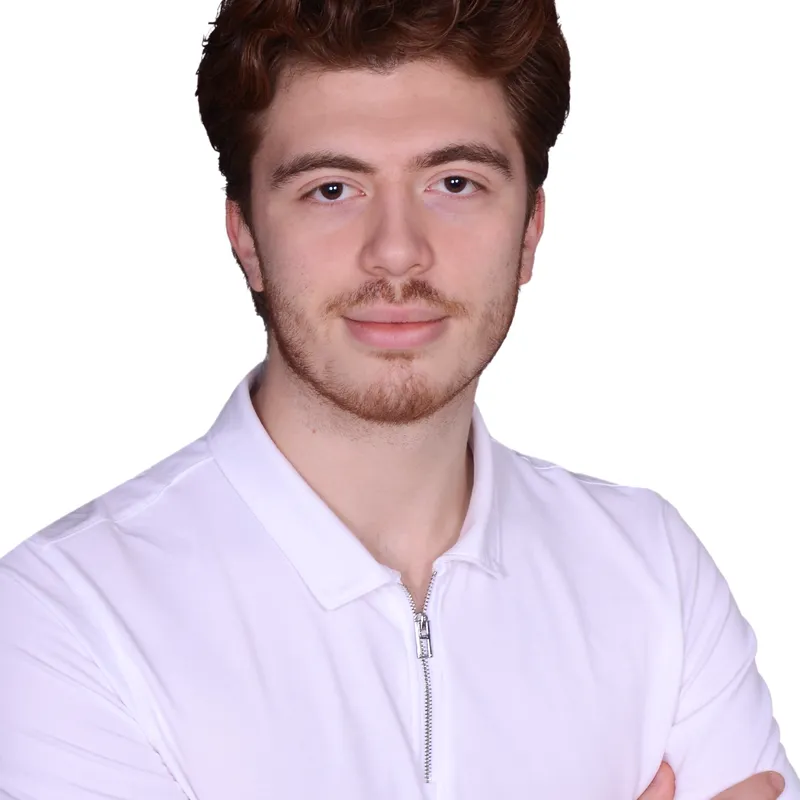
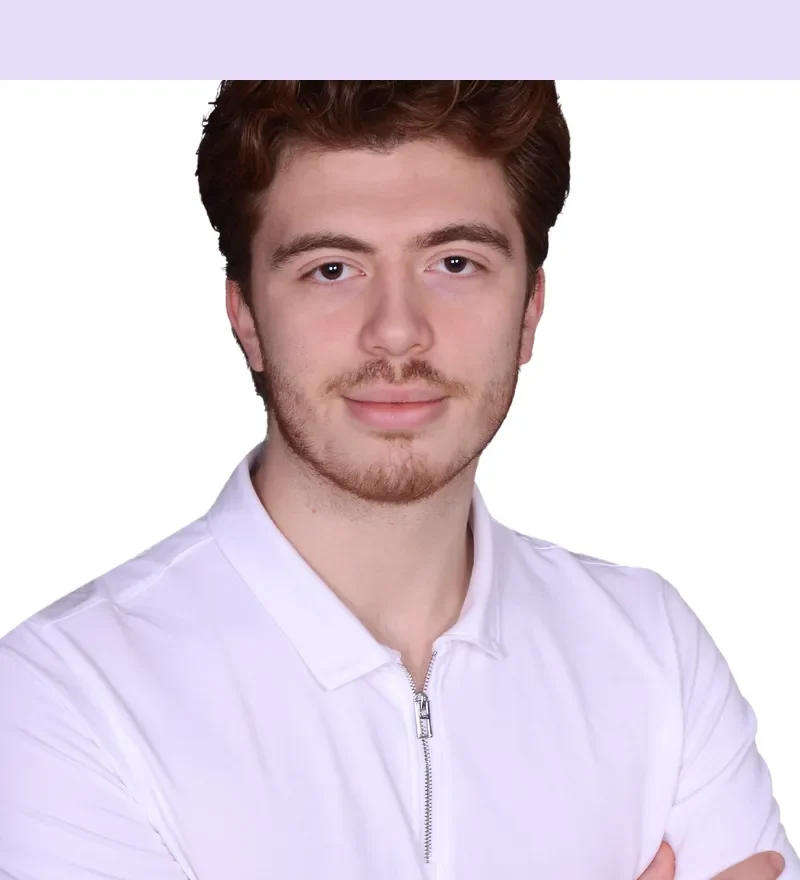
content(team): add Gozde, Tolunay, Bengisu, Dilsad — remove Damla — reframe Gurkan
Four new team members added to /studio team grid (and SEO surfaces flowing
through visibleTeamMembers):
- Gozde — Business Development
- Tolunay — Designer
- Bengisu Tuncer — Designer
- Dilsad Altinisik — Designer

All four source images converted from jpg/png to 800x800 WebP at quality 82,
matching the existing team format exactly. Used sharp's "attention" smart-crop
to keep faces well-positioned within the square frame. File sizes 14-65 KB,
in line with existing 17-66 KB range.

Damla Niseoglu removed (no longer with the firm). Damla.webp deleted from
public/people/ — verified no other code or content references it.

Gurkan's photo reframing: brightness analysis across all 11 portraits showed
his image was the only one with the head touching the top edge (top band
brightness 180 vs 226-251 for everyone else, who all had clear background
above the head). Sampled his actual background color (lavender/blue
{231,221,249}) from a clean corner, extended top by 80px with that color,
re-cropped to 800x800. New brightness profile (192|211|221|225) now matches
the natural top-light → mid-darker progression of the rest of the roster.

Insertion order in roster: principals first (Burak, Ege), Seth (special
credentials), Gozde (BD), Gurkan (Senior Designer), then designers
alphabetically (Bengisu, Dilsad, Irem, Kutay, Tolunay, Yaren). 11 members
total — fills the 4-column grid as 4+4+3 on /studio.

diff --git a/lib/site-data.js b/lib/site-data.js
@@ -506,10 +506,13 @@ export const teamMembers = [
   { name: "Burak Celik", role: "Principal, Assoc. AIA", image: "/people/Burak.webp", slug: "burak-celik" },
   { name: "Ege Yener", role: "Principal, Assoc. AIA", image: "/people/Ege.webp" },
   { name: "Seth Dunn", role: "AIA, LFA, LEED AP BD+C", image: "/people/Seth.webp" },
+  { name: "Gozde", role: "Business Development", image: "/people/Gozde.webp" },
   { name: "Gurkan Gokal", role: "Senior Designer", image: "/people/GurkanGokal_Photo.webp" },
-  { name: "Damla Niseoglu", role: "Designer", image: "/people/Damla.webp" },
+  { name: "Bengisu Tuncer", role: "Designer", image: "/people/Bengisu.webp" },
+  { name: "Dilsad Altinisik", role: "Designer", image: "/people/Dilsad.webp" },
   { name: "Irem Gokakin", role: "Designer", image: "/people/Irem.webp" },
   { name: "Kutay Koctekin", role: "Designer", image: "/people/Kutay.webp" },
+  { name: "Tolunay", role: "Designer", image: "/people/Tolunay.webp" },
   { name: "Yaren Usta", role: "Designer", image: "/people/Yaren.webp" },
 ];
 
